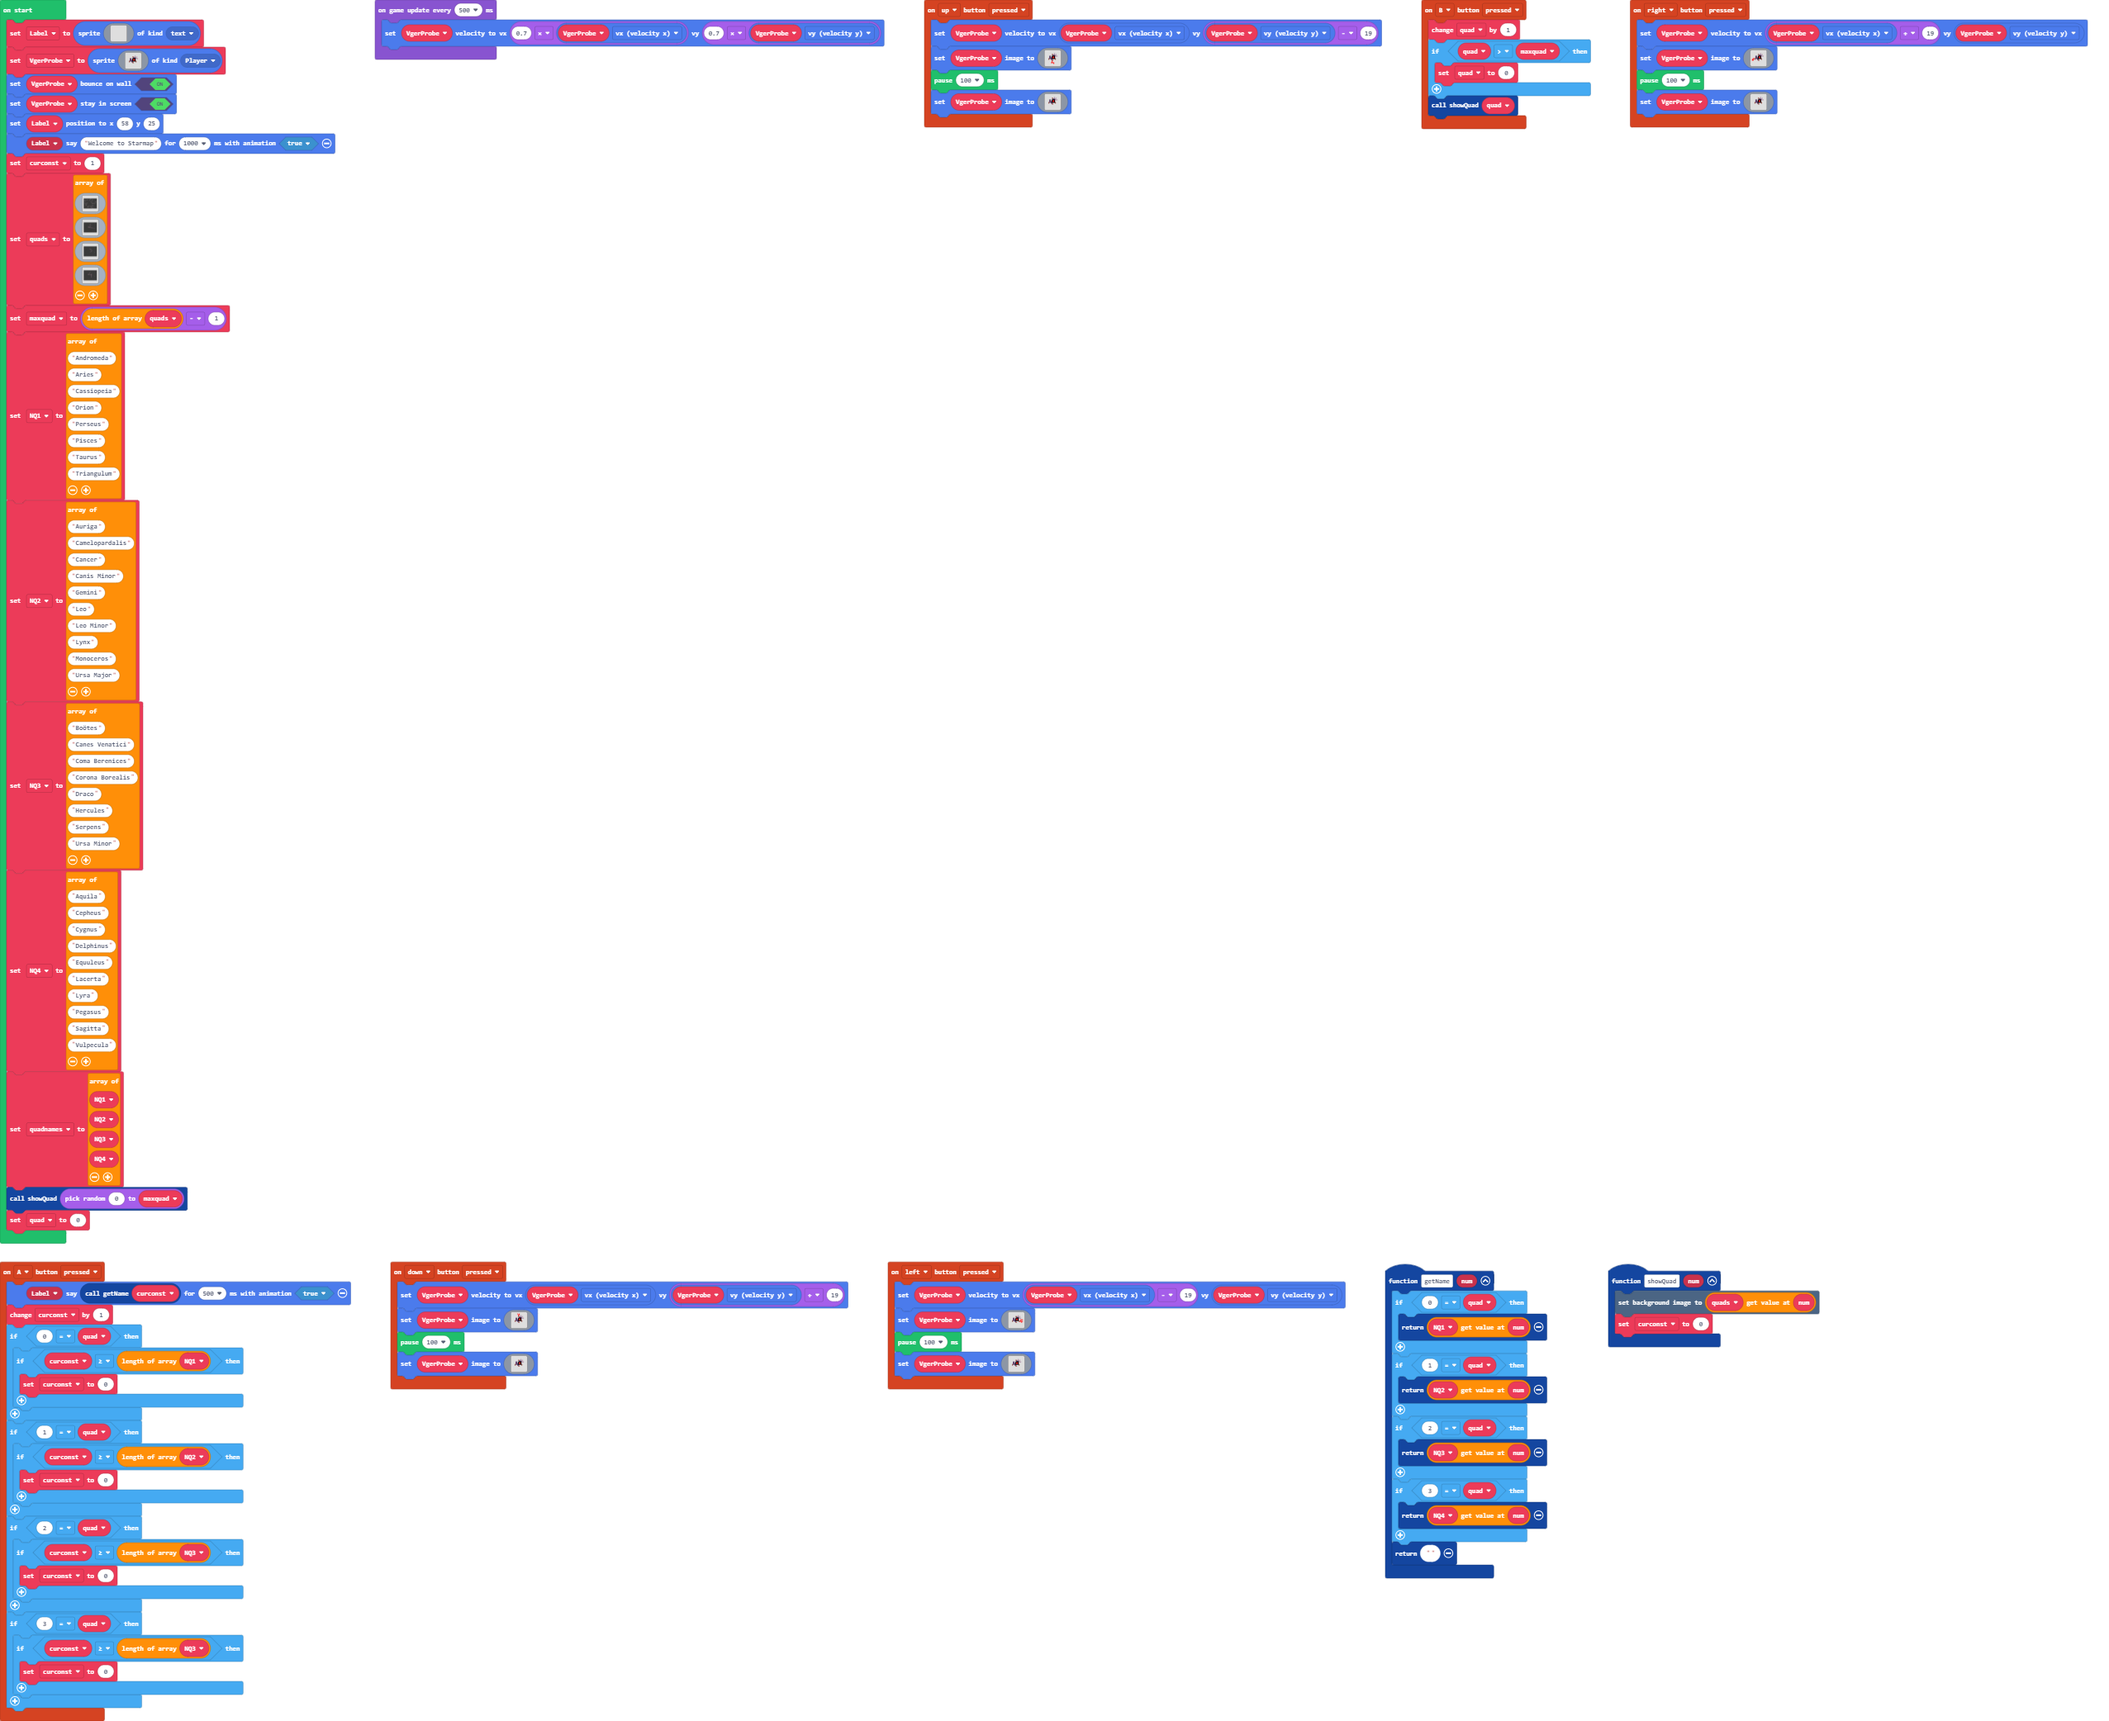
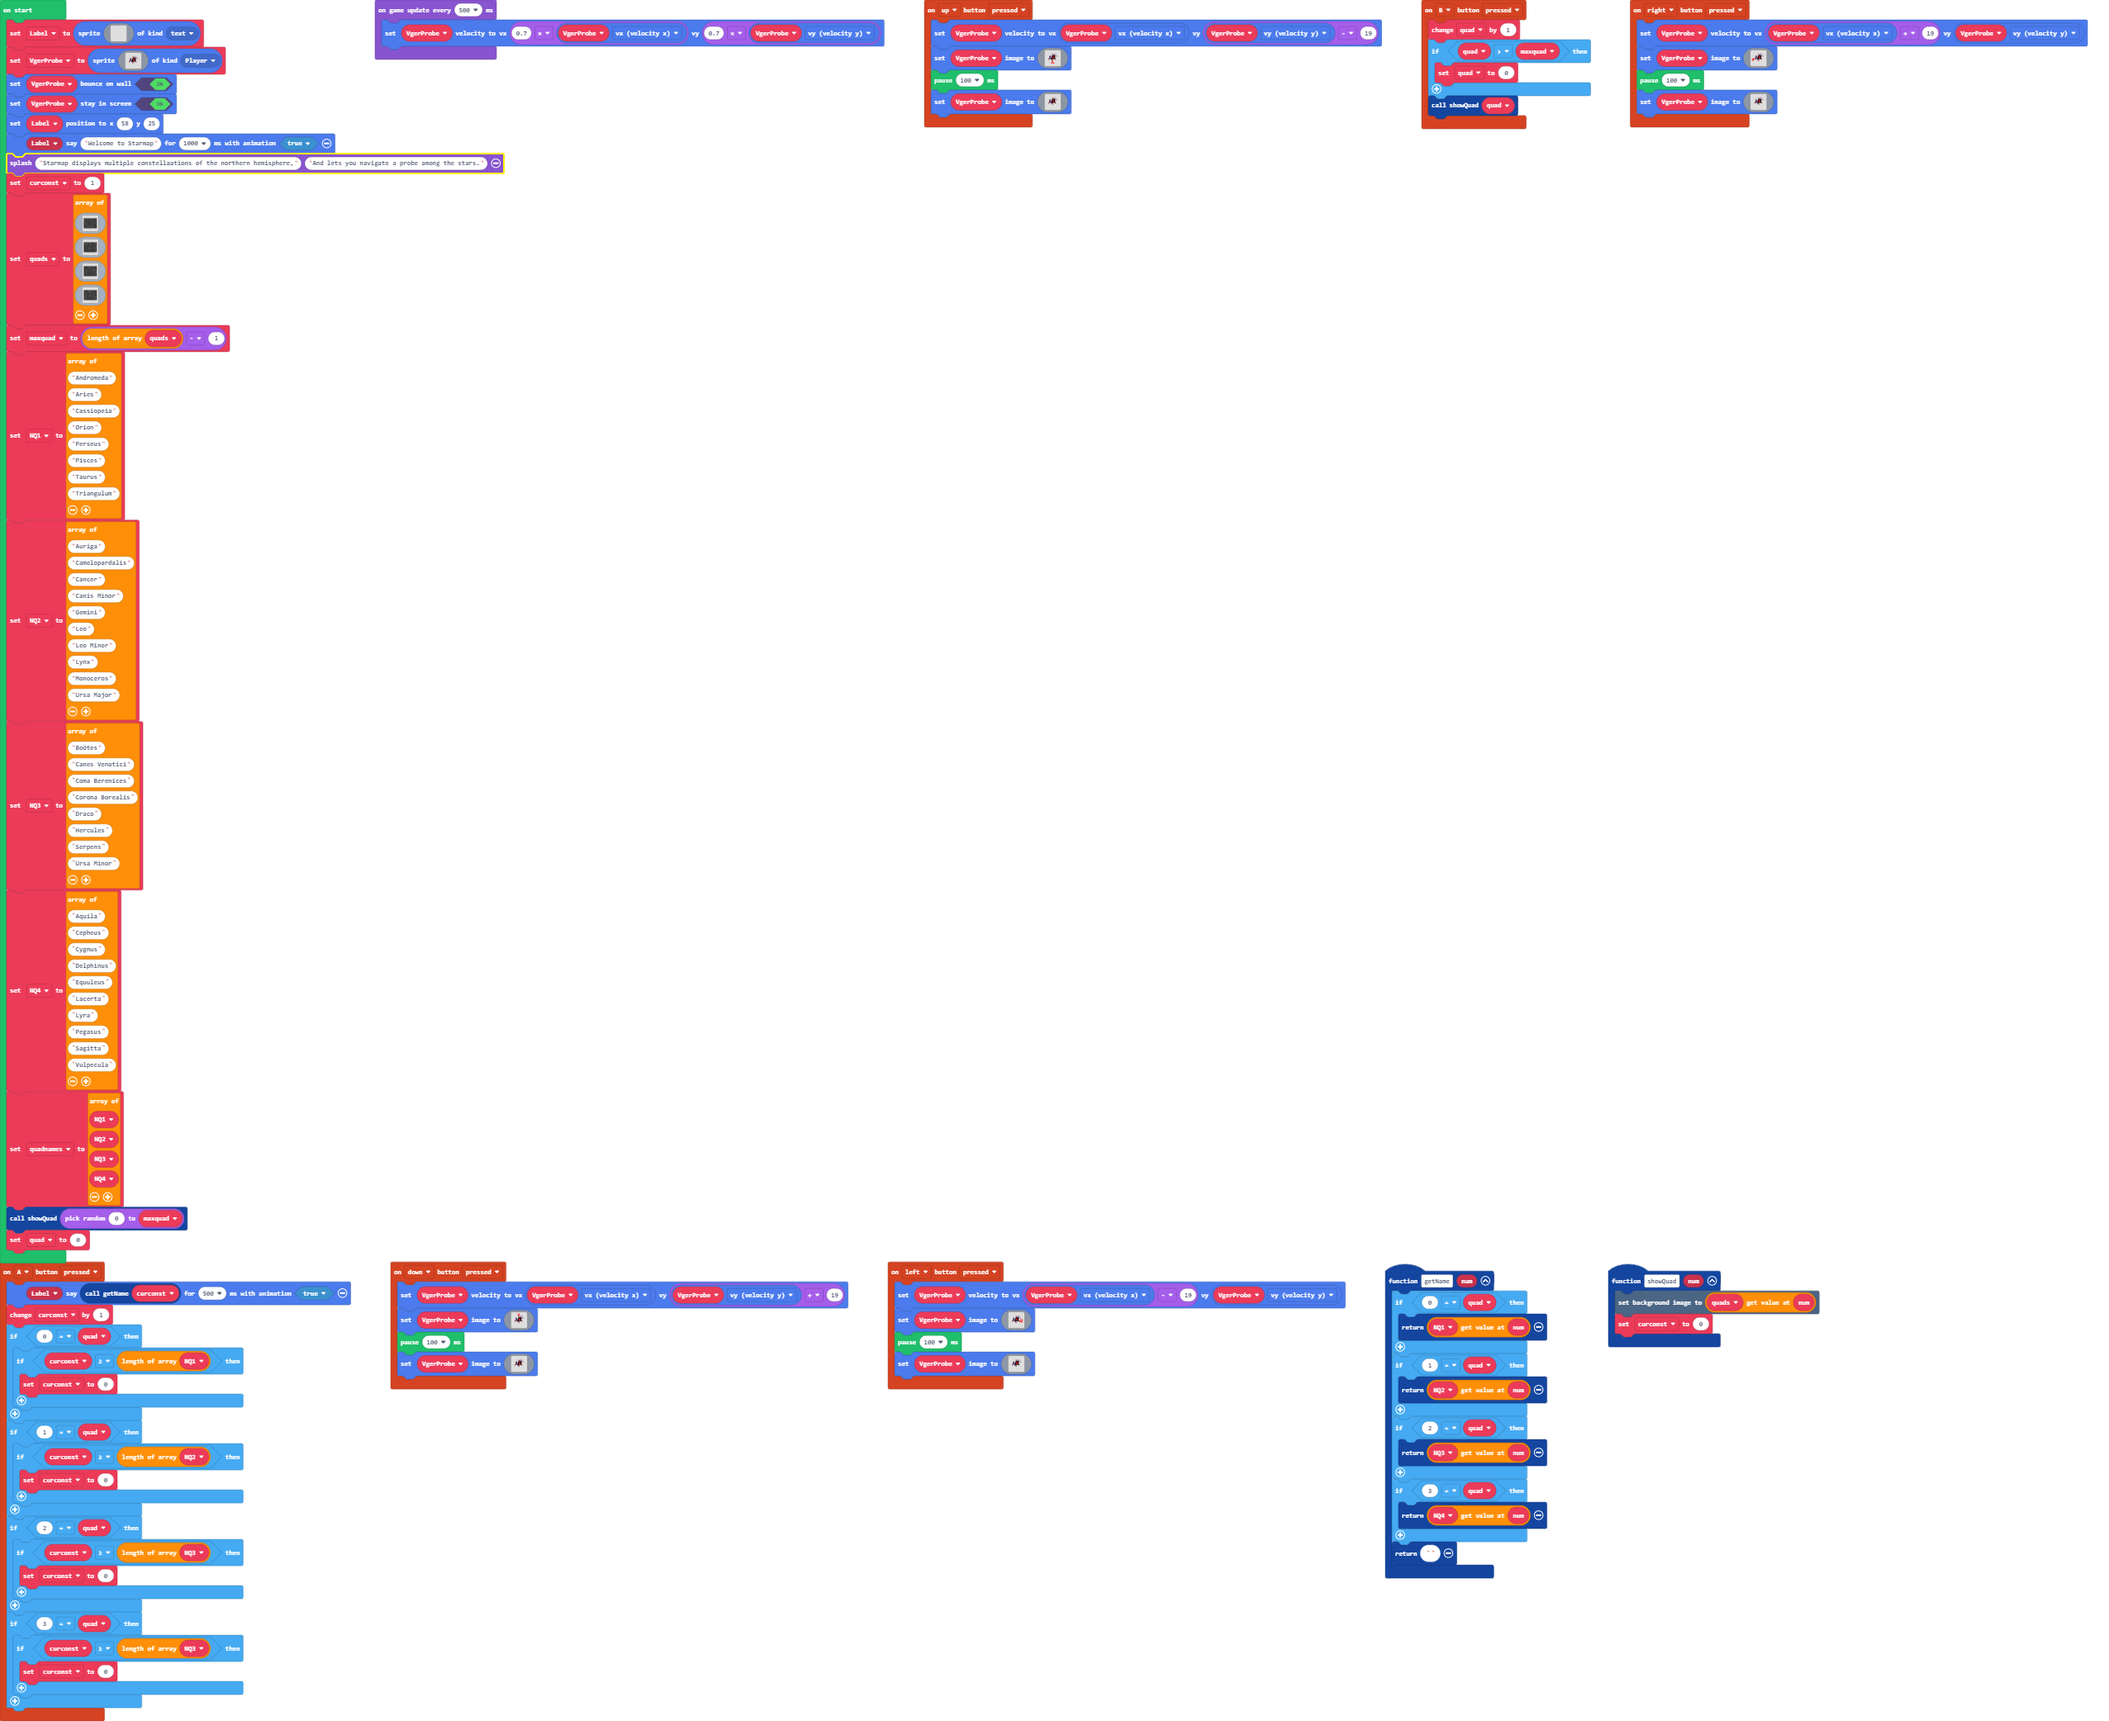
Update main.blocks, main.ts

Changed region(s): [[0.0, 0.0624, 0.2476, 0.7486]]

diff --git a/main.ts b/main.ts
@@ -91,6 +91,7 @@ VgerProbe.setBounceOnWall(true)
 VgerProbe.setStayInScreen(true)
 Label.setPosition(58, 25)
 Label.sayText("Welcome to Starmap", 1000, true)
+game.splash("Starmap displays multiple constellaations of the northern hemisphere,", "And lets you navigate a probe among the stars.")
 curconst = 1
 quads = [
 assets.image`quad`,
